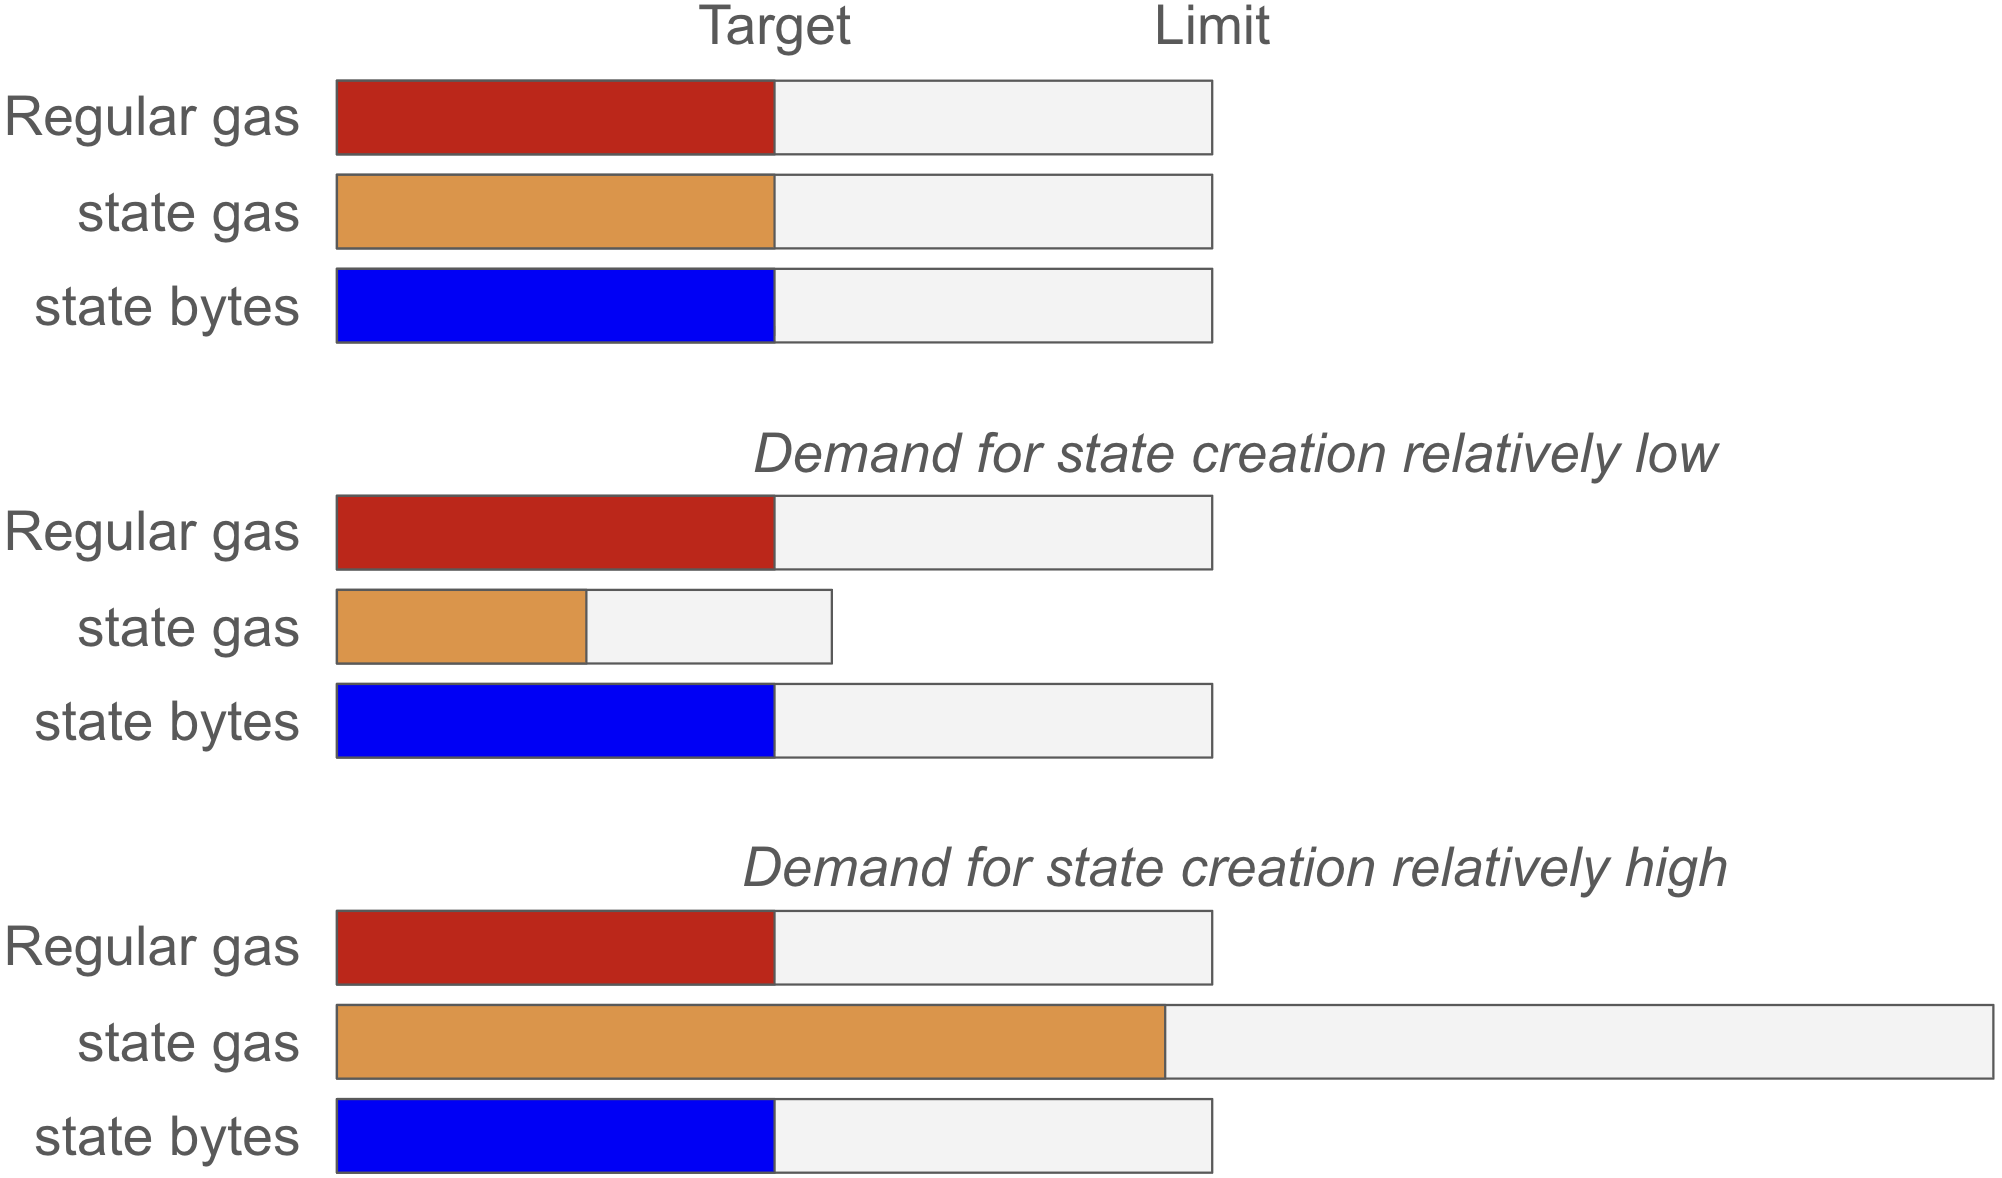
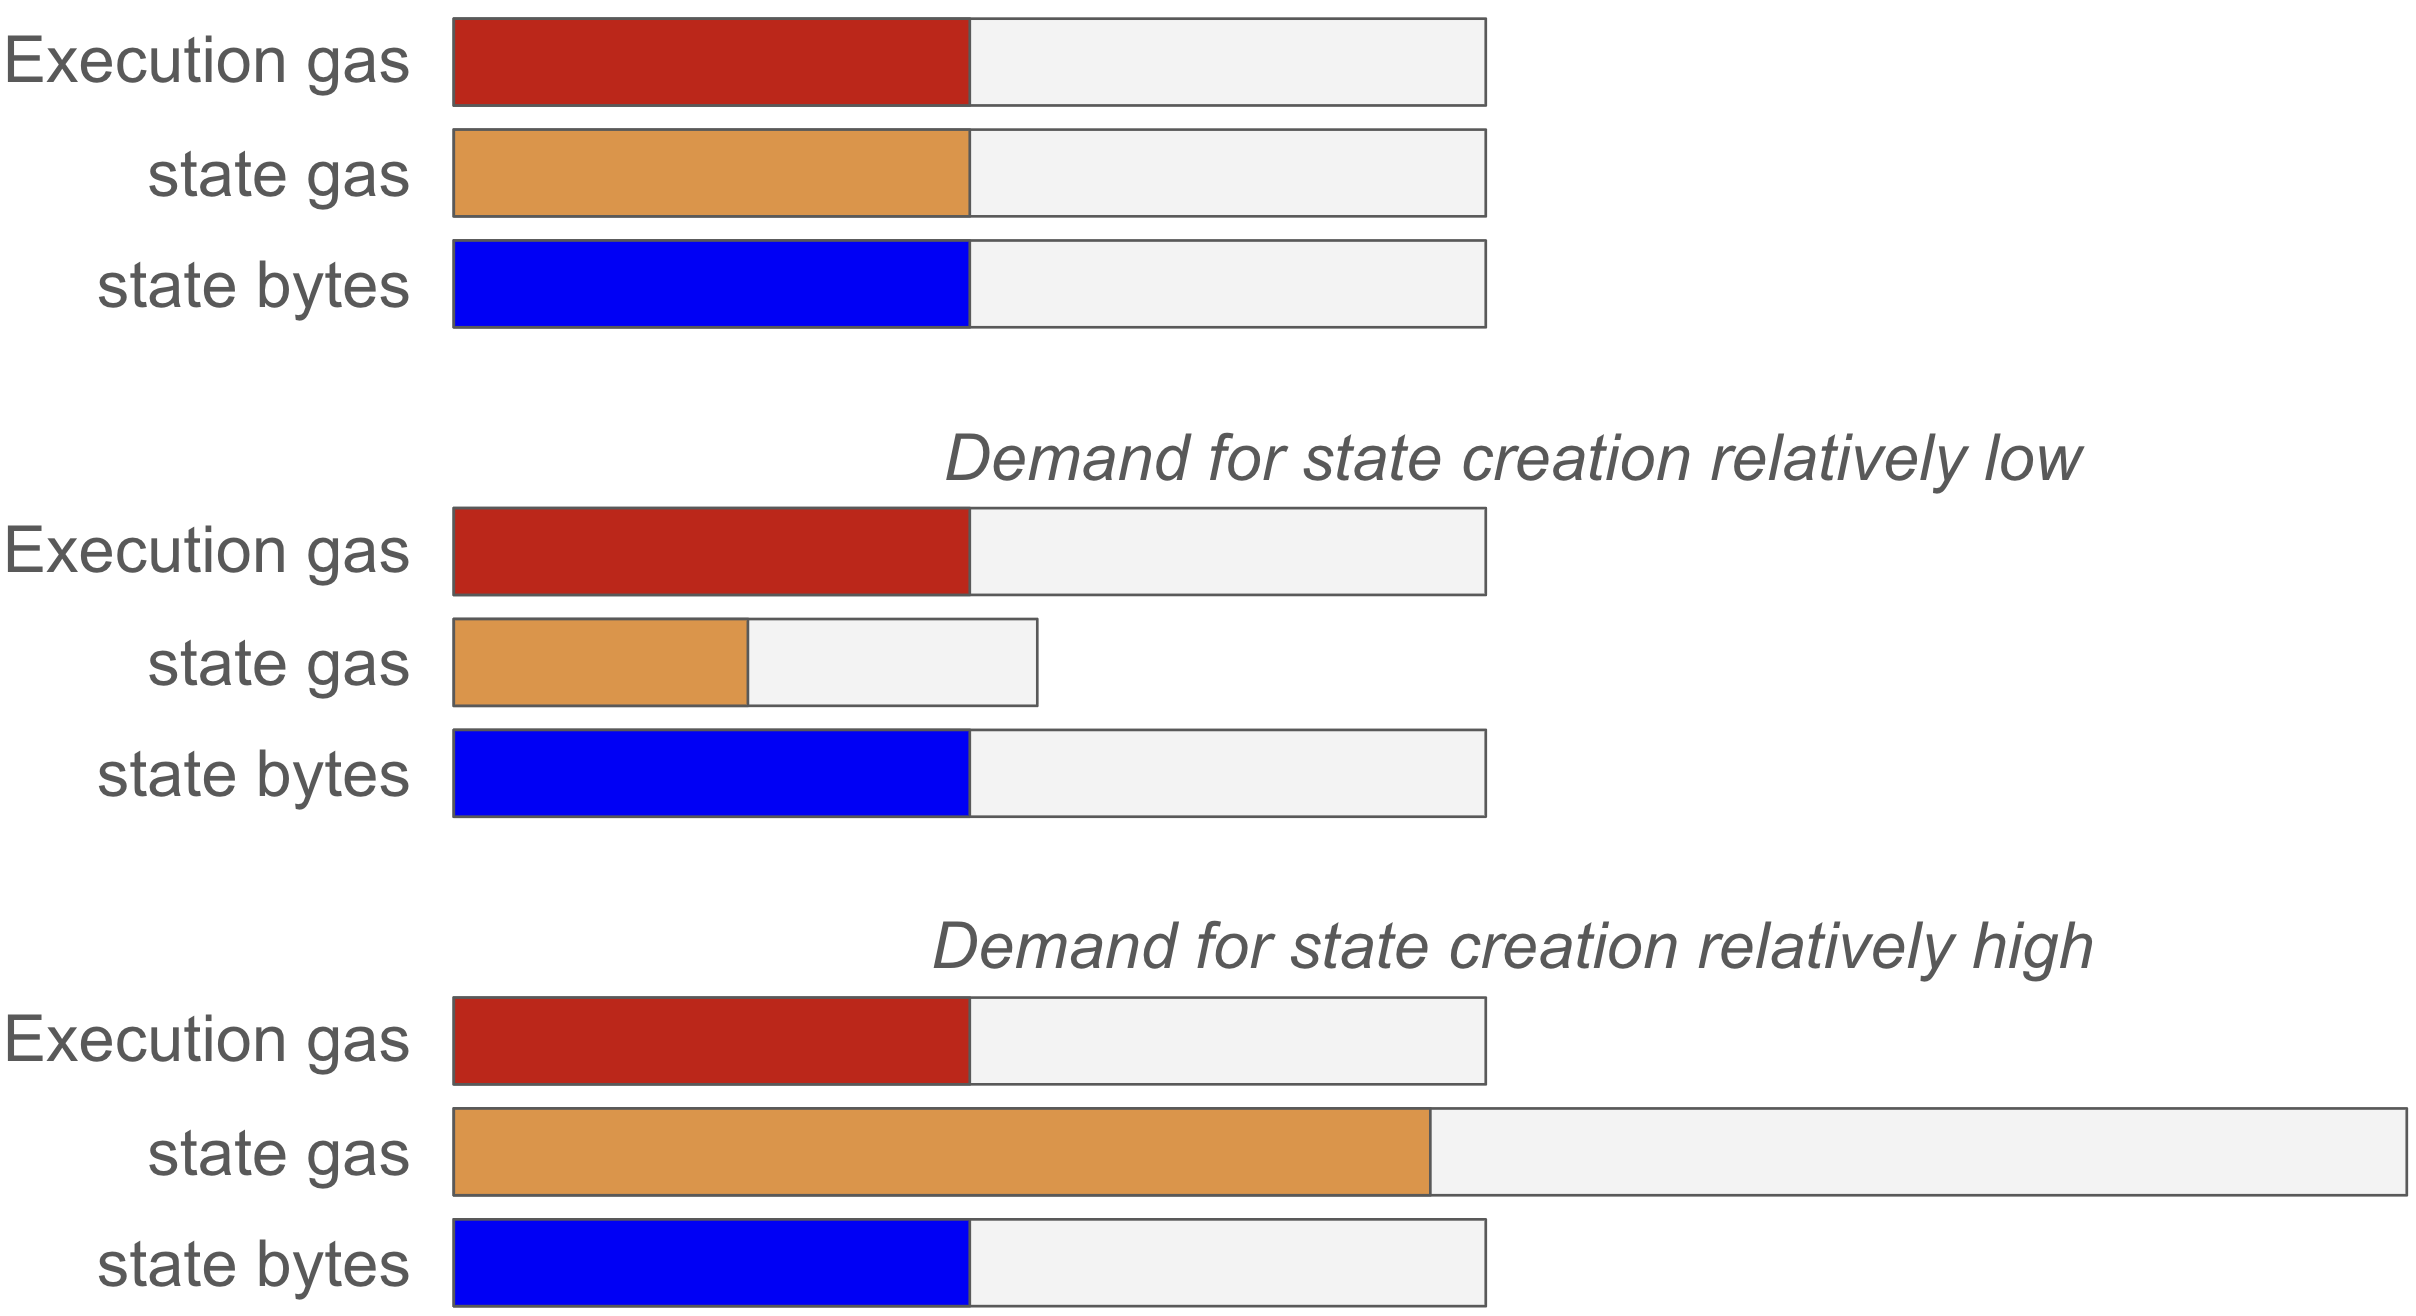
Updated figures and text

Changed region(s): [[0.0, 0.7029, 1.0, 1.0], [0.0, 0.0, 0.6503, 0.3056], [0.0, 0.3362, 0.8671, 0.6418]]

diff --git a/EIPS/eip-8372.md b/EIPS/eip-8372.md
@@ -13,13 +13,13 @@ requires: 8037
 
 ## Abstract
 
-This EIP modifies [EIP-8037](./eip-8037.md) by assigning state gas a scaled raw limit and normalizing state-gas usage before computing block-level `gas_used`. At activation, `CPSB` and the limit scale are set so the state-byte price can reflect estimated demand while the selected state-growth target continues to correspond to 50% normalized state-gas utilization. No new transaction or block-header fields are introduced.
+This EIP modifies [EIP-8037](./eip-8037.md) by assigning state gas a scaled raw limit and normalizing state-gas usage before computing block-level `gas_used`. At activation, cost per state byte (`CPSB`) and the limit scale are set so the state-byte price can reflect estimated demand while the selected state-growth target continues to correspond to 50% normalized state-gas utilization. No new transaction or block-header fields are introduced.
 
 ## Motivation
 
 EIP-8037 gives execution gas and state gas the same block limit and uses the larger cumulative gas value as block-level `gas_used`. Its `CPSB` therefore determines how many state bytes correspond to the 50% state-gas target.
 
-Ethereum users are not guaranteed, in aggregate, to spend half of their gas budget on state creation. At the `CPSB` selected by EIP-8037, state demand may be lower or higher than the level that lets state gas and execution gas both approach their common 50% target. Figure 1 illustrates the resulting failure modes. Relatively low state demand produces less state than intended, while relatively high state demand makes state gas the bottleneck and suppresses execution-gas consumption.
+Ethereum users are not guaranteed, in aggregate, to spend half of their gas budget on state creation. At the cost per state byte (`CPSB`) selected by EIP-8037, state demand may be lower or higher than the level that lets state gas and execution gas both approach their common 50% target. Figure 1 illustrates the resulting failure modes. Relatively low state demand produces less state than intended, while relatively high state demand makes state gas the bottleneck and suppresses execution-gas consumption.
 
 ![Figure 1. The two possible equilibrium failure modes.](../assets/eip-8372/figure-1.png)
 
@@ -56,7 +56,7 @@ The EIP-8037 block-level `gas_used` computation and validity condition are updat
 
 ```python
 state_gas_limit = block.gas_limit * STATE_GAS_LIMIT_SCALE // STATE_GAS_LIMIT_SCALE_DENOMINATOR
-normalized_block_state_gas_used = block_output.block_state_gas_used * STATE_GAS_LIMIT_SCALE_DENOMINATOR // STATE_GAS_LIMIT_SCALE
+normalized_block_state_gas_used = (block_output.block_state_gas_used * STATE_GAS_LIMIT_SCALE_DENOMINATOR) // STATE_GAS_LIMIT_SCALE
 gas_used = max(block_output.block_execution_gas_used, normalized_block_state_gas_used)
 assert block_output.block_state_gas_used <= state_gas_limit, 'invalid block: too much state gas used'
 assert gas_used <= block.gas_limit, 'invalid block: too much gas used'
@@ -74,20 +74,16 @@ This EIP makes one fixed best-effort calibration at activation. The objective is
 
 This can be viewed as a manual, one-time analogue of [EIP-8075](./eip-8075.md): EIP-8075 adapts the state-byte price and relative state-gas limit with demand, whereas this EIP selects fixed values at activation.
 
-The calibration starts by determining the `target_state_growth_per_year` and `expected_block_gas_limit`, then deriving:
+The calibration starts by determining the `target_state_growth_per_year` and `expected_block_gas_limit`, then deriving: 
+`baseline_cpsb = expected_block_gas_limit * blocks_per_year // (2 * target_state_growth_per_year)`.
 
-```python
-blocks_per_year = 7200 * 365
-baseline_cpsb = expected_block_gas_limit * blocks_per_year // (2 * target_state_growth_per_year)
-```
-
-The value of `blocks_per_year` assumes 12-second slots. Both it and `baseline_cpsb` are analytical values rather than additional consensus parameters. The `baseline_cpsb` value maps the selected annual state-growth target to 50% of the block gas limit when the raw state-gas limit equals the block gas limit. Thus, the `baseline_cpsb` is equal to `CPSB` only if demand at that price is expected to produce the target state growth.
+Both `blocks_per_year` and `baseline_cpsb` are here simply analytical values rather than additional consensus parameters. The `baseline_cpsb` value maps the selected annual state-growth target to 50% of the block gas limit when the raw state-gas limit equals the block gas limit. Thus, the `baseline_cpsb` is equal to `CPSB` only if demand at that price is expected to produce the target state growth.
 
 Figure 2 illustrates the three possible calibrations after comparing expected demand at `baseline_cpsb` with the target. If demand is expected to match the target, no scaling is needed. If expected demand is lower, both `CPSB` and the raw state-gas limit are reduced. If expected demand is higher, both are increased. These are alternative fixed settings selected from demand estimated before activation, not dynamic adjustments performed after activation.
 
 ![Figure 2. The three possible state-gas calibrations.](../assets/eip-8372/figure-2.png)
 
-**Figure 2.** The hardfork may retain, contract, or expand the raw state-gas limit according to the state demand estimated before activation. The `CPSB` changes proportionally so that the targeted state-byte capacity is preserved after normalization.
+**Figure 2.** The hardfork may retain, contract, or expand the raw state-gas limit according to the state demand estimated before activation. The `CPSB` is changed proportionally so that the targeted state-byte capacity is preserved after normalization.
 
 The next step is to use observed demand elasticities to select the actual `CPSB` so that expected state growth is close to `target_state_growth_per_year`. Then select the matching limit scale according to:
 
